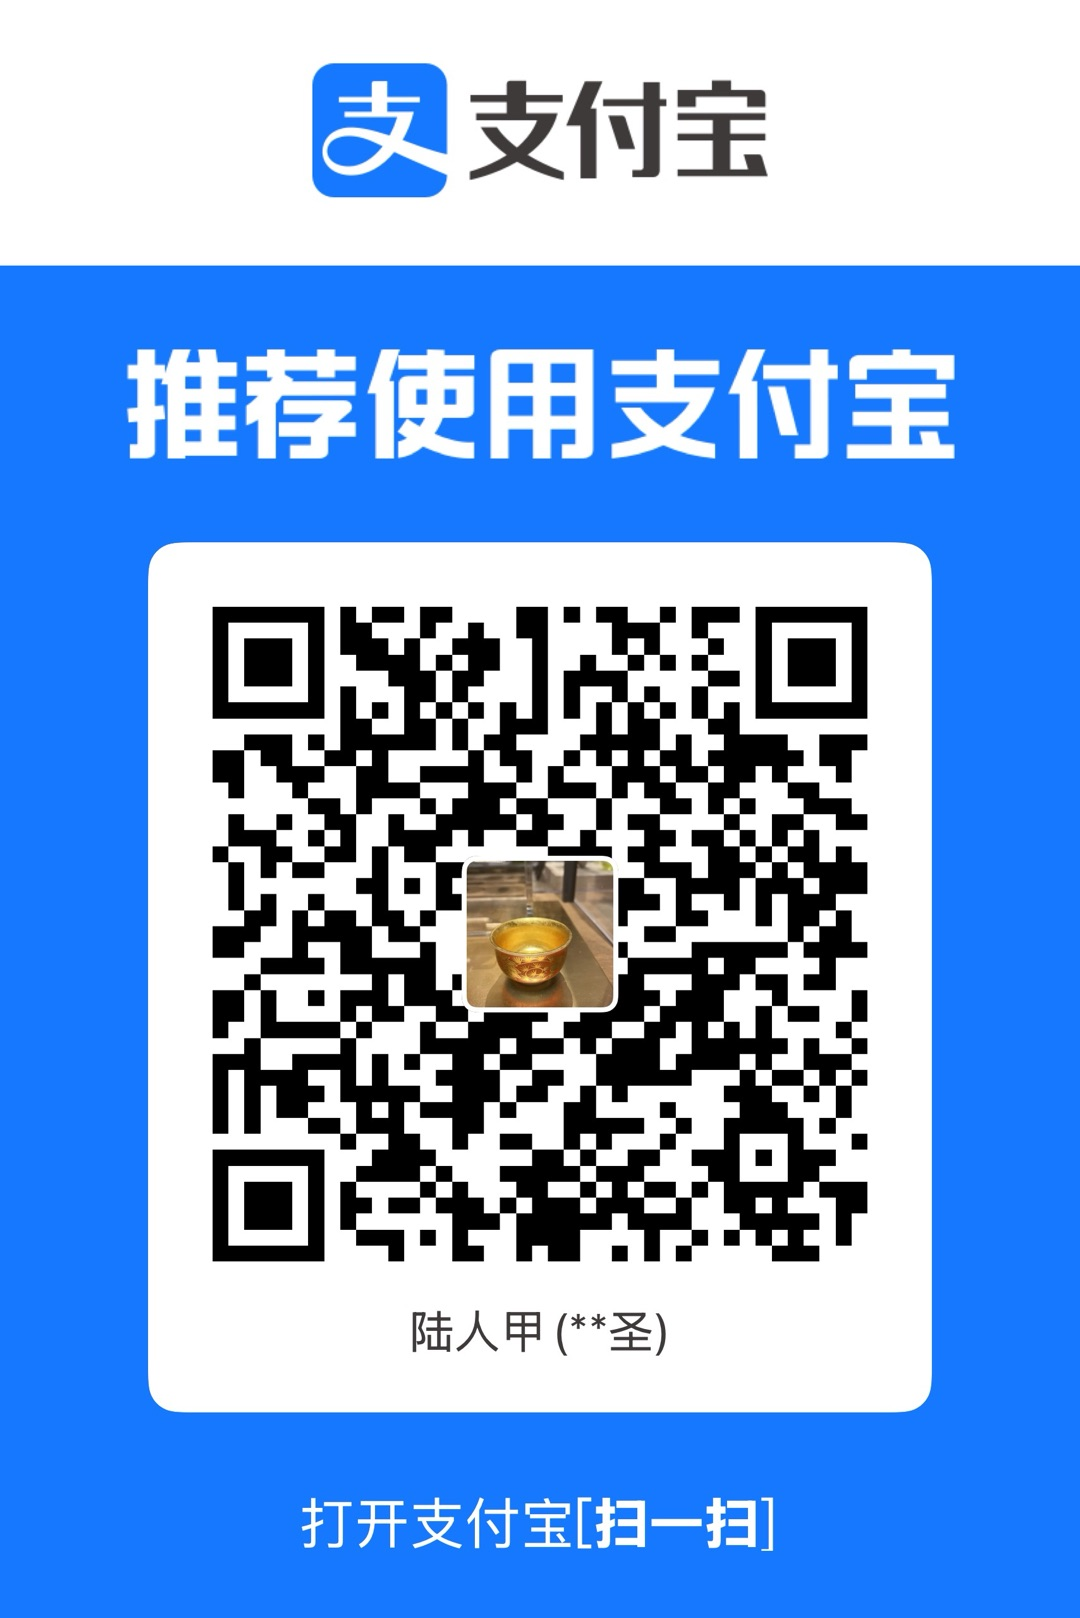
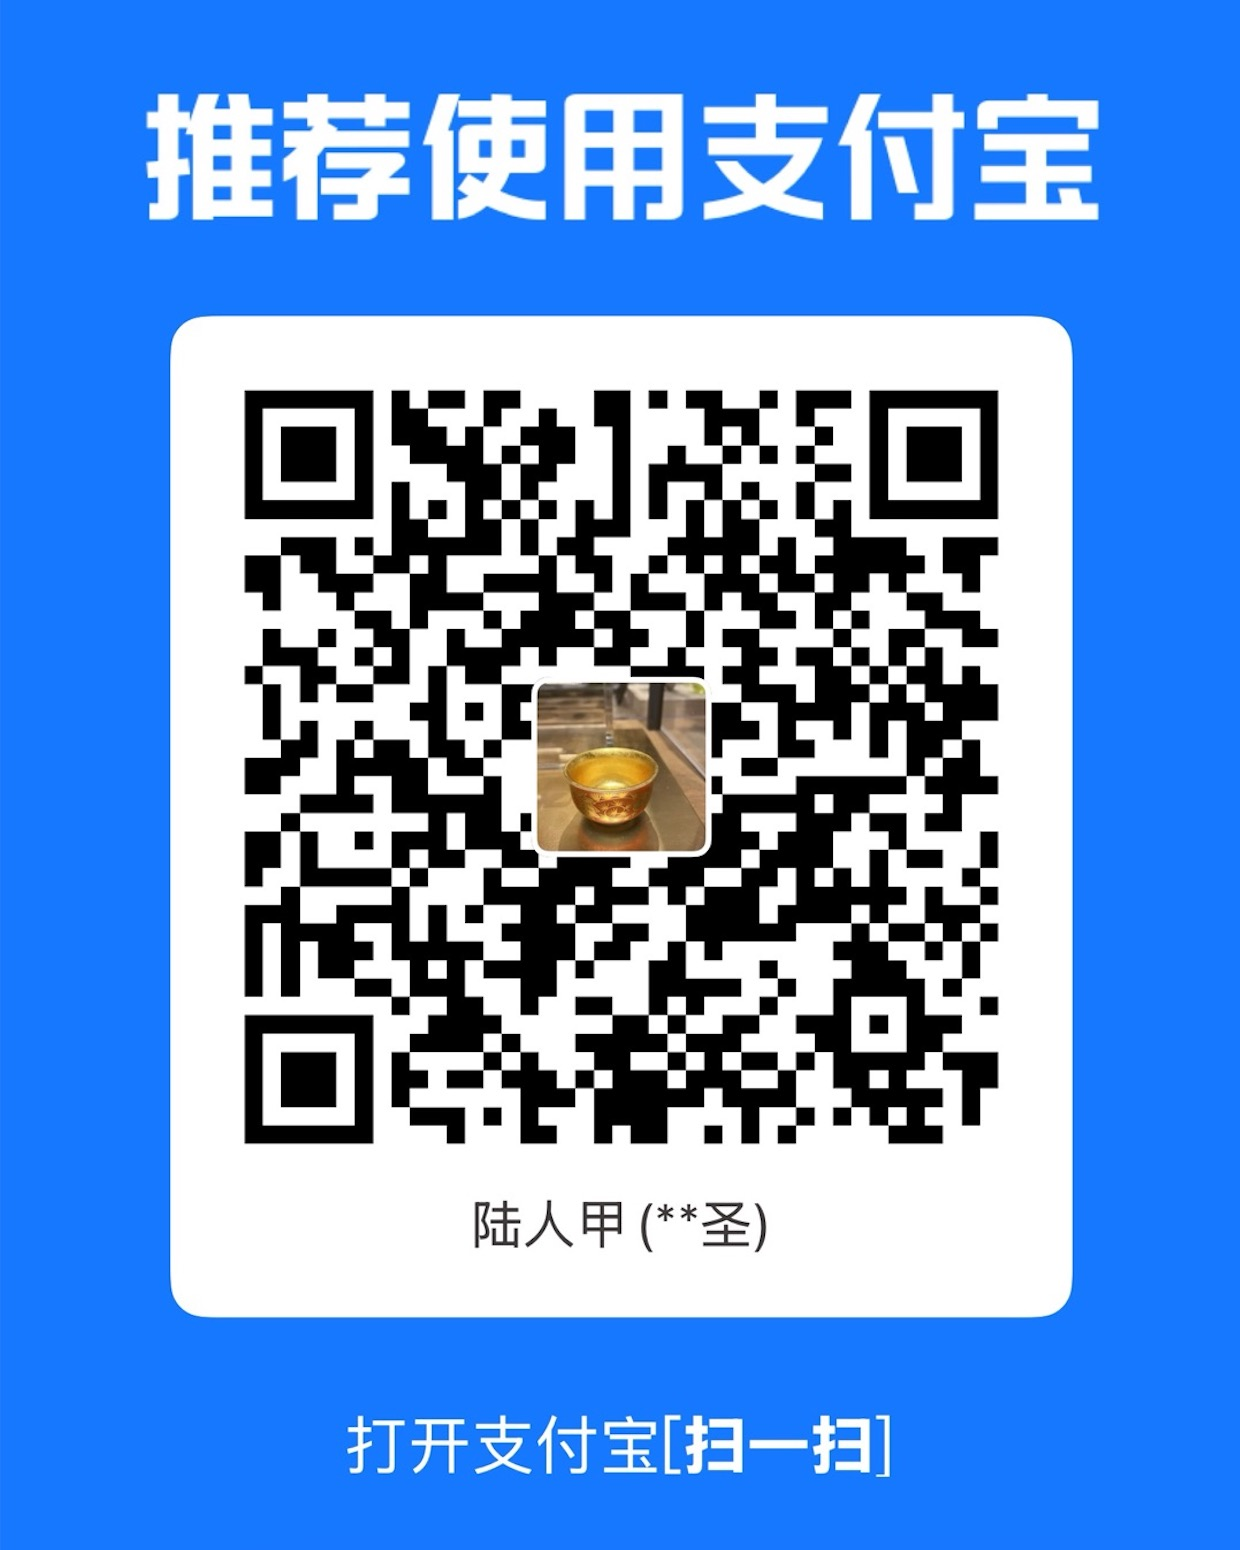
fix: update zfb.jpg, fix language switch to navigate to correct page

diff --git a/source/js/i18n.js b/source/js/i18n.js
@@ -85,7 +85,16 @@
   function toggleLang() {
     var current = getLang();
     var next = current === 'zh-CN' ? 'en' : 'zh-CN';
-    setLang(next);
+    localStorage.setItem(STORAGE_KEY, next);
+    // 切换语言时跳转到对应的文章列表页
+    var root = '/ideas/';
+    if (next === 'en') {
+      // 切换到英文 → 跳转到英文分类页
+      window.location.href = root + 'categories/English/';
+    } else {
+      // 切换到中文 → 跳转到首页
+      window.location.href = root;
+    }
   }
 
   // 核心：应用语言到所有 UI 元素
@@ -276,5 +285,6 @@
     apply: function () { applyLang(getLang()); }
   };
 })();
+
 
 
